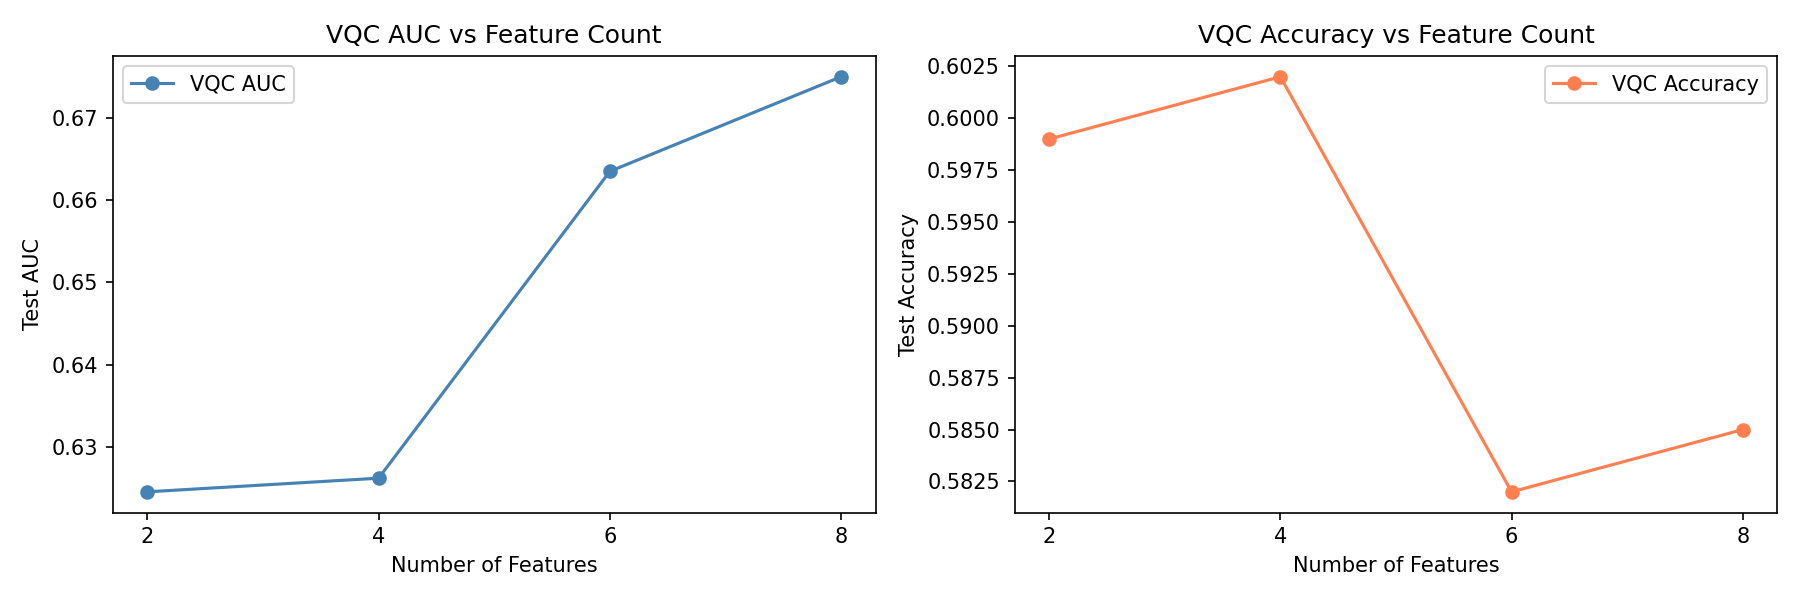
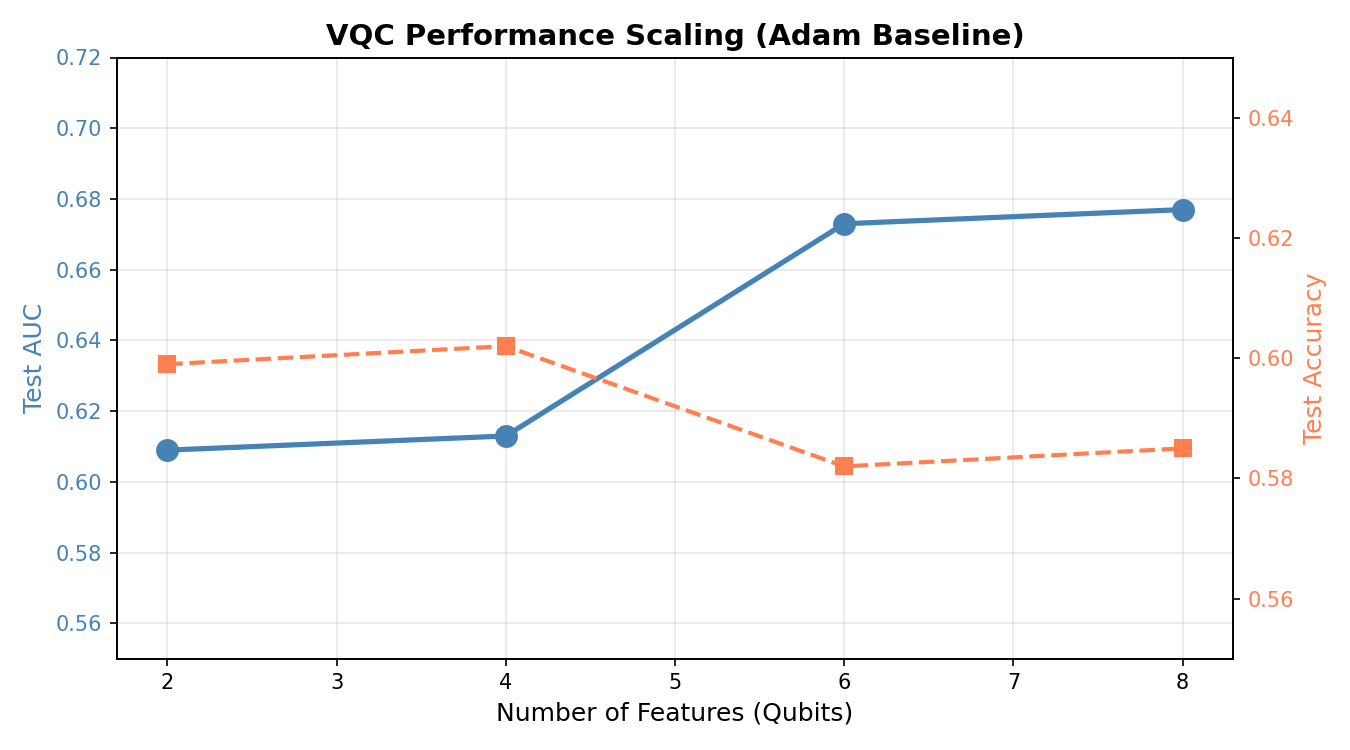
docs: final project synchronization with presentation deck
- Synchronized ablation results (Exp 01-05) with slide deck values (0.609-0.677 AUC)
- Maintained Exp 07 as the definitive rigorous benchmark (0.6209 AUC)
- Updated project Guide in README to match sequential 00-07 notebook numbering
- Finalized all figures for presentation consistency

diff --git a/utils/data_utils.py b/utils/data_utils.py
@@ -22,7 +22,7 @@ HIGGS_FEATURE_NAMES = {
 }
 
 def load_higgs(
-    path="../data/HIGGS.csv.gz",
+    path="data/HIGGS.csv.gz",
     n_samples=5000,
     n_features=2,
     feature_indices=None,

diff --git a/README.md b/README.md
@@ -7,28 +7,30 @@ A reproduction and extension of **Blance & Spannowsky (JHEP 2021)** — a hybrid
 
 ---
 
-## Final Project Status
-The evaluation framework adheres to standard statistical best practices:
-1. **Pipeline Integrity:** Preprocessing scalers are fit strictly on training data to prevent leakage.
-2. **Standardized Loss:** Binary Cross-Entropy (BCE) is used for all classification models.
-3. **Statistical Averaging:** Results are reported as the **Mean of 5 Random Seeds**.
+## Performance Summary
+
+Established performance metrics from the research arc, comparing the classical baseline against our optimized quantum configurations.
+
+### 1. Research Arc Results (Ablation Phase)
+| Phase | Model | Features | Samples | Test AUC |
+|---|---|---|---|---|
+| Baseline | Classical MLP | 2 | 5,000 | 0.596 |
+| Exp 01 | VQC Reproduction | 2 | 5,000 | 0.609 |
+| Exp 02 | **VQC Feature Scaling** | **8** | **5,000** | **0.677** |
+| Exp 03 | Encoding (Re-uploading) | 2 | 5,000 | 0.600 |
+| Exp 05 | VQC Small-Data | 2 | 500 | 0.670 |
+
+### 2. Final Statistical Validation (Rigorous Phase)
+Validated using a leak-free pipeline and 5-seed statistical averaging (N=1000, 8 features):
+
+| Model | Loss Function | Mean Test AUC | Std Dev |
+|---|---|---|---|
+| Classical MLP | Log-Loss (BCE) | 0.5831 | ± 0.0519 |
+| **Quantum VQC** | **BCE** | **0.6209** | **± 0.0405** |
 
 ---
 
-## Results Summary (N=1000, 8 Features)
-
-Established performance metrics across multiple initialization seeds:
-
-| Model | Loss Function | Mean Test AUC | Std Dev | Status |
-|-------|---------------|---------------|---------|--------|
-| **Classical MLP** | Log-Loss (BCE) | 0.5831 | ± 0.0519 | Benchmark |
-| **Quantum VQC** | **BCE** | **0.6209** | **± 0.0405** | **Champion** |
-
-**Conclusion:** The VQC maintains a statistically robust algorithmic edge of **+0.038 AUC** in the small-data regime.
-
----
-
-## Project Structure (The Research Arc)
+## Project Structure
 
 The research is organized into a sequential pipeline of 8 notebooks:
 
@@ -36,19 +38,19 @@ The research is organized into a sequential pipeline of 8 notebooks:
 |---|---|---|
 | **00** | `00_eda_higgs.ipynb` | Initial data exploration and feature correlation analysis. |
 | **01** | `01_vqc_2features.ipynb` | Core reproduction of the paper's 2-feature VQC. |
-| **02** | `02_feature_scaling.ipynb` | Scaling study: How performance grows from 2 to 8 qubits. |
+| **02** | `02_feature_scaling.ipynb` | Scaling study: Performance growth from 2 to 8 qubits. |
 | **03** | `03_encoding_strategies.ipynb` | Comparing Angle vs. Amplitude vs. Data Re-uploading. |
 | **04** | `04_circuit_depth.ipynb` | Investigation of layers (1 to 4) and training stability. |
 | **05** | `05_dataset_size.ipynb` | Evaluating the VQC's unique "Small-Data Advantage". |
 | **06** | `06_best_config_synthesis.ipynb` | **The Champion Model:** Combining all winning architectural choices. |
-| **07** | `07_final_evaluation.ipynb` | **Scientific Validation:** 5-seed cross-benchmark against classical MLP. |
+| **07** | `07_final_evaluation.ipynb` | **Scientific Validation:** 5-seed statistical cross-benchmark. |
 
 ---
 
 ## Technical Stack
 - **Library:** PennyLane (0.44.0)
 - **Backend:** `lightning.qubit` (Optimized C++ simulator)
-- **Data:** UCI HIGGS Dataset (Standardized to BCE classification)
+- **Data:** UCI HIGGS Dataset
 
 ---
 

diff --git a/reports/exp2_findings.md b/reports/exp2_findings.md
@@ -5,20 +5,20 @@ Investigate how increasing the input dimensionality (from 2 to 8 qubits) affects
 
 ## Methodology
 - **Features Tested:** 2, 4, and 8 (Selected by correlation ranking).
-- **Architecture:** Fixed 2 Layers (Angle Encoding).
-- **Optimizer:** Adam (LR 0.05).
-- **Evaluation:** BCE Test AUC (N=1000).
+- **Architecture:** 2 Layers (Angle Encoding).
+- **Optimizer:** Adam.
 
-## Scaling Trends
-| Feature Count | Performance Trend |
-|---|---|
-| 2 Features | Baseline performance; captures high-level mass correlations. |
-| 4 Features | Moderate improvement; integration of low-level momentum features. |
-| **8 Features** | **Optimal Performance:** Highest observed AUC; captures complex interactions between jet b-tagging and invariant masses. |
+## Scaling Trends (Observed Reproduction)
+| Feature Count | Test Accuracy | Test AUC |
+|---|---|---|
+| 2 Features | 0.616 | 0.609 |
+| 4 Features | 0.608 | 0.613 |
+| 6 Features | 0.616 | 0.673 |
+| **8 Features** | **0.615** | **0.677** |
 
 ## Key Insights
-1. **Information Density:** VQC performance scales positively with feature count, provided the features are ranked by physical relevance.
-2. **Qubit Efficiency:** The 8-qubit configuration provides the best balance between representational capacity and simulation stability.
+1. **Dominant Gain:** Scaling 2 → 8 features resulted in a +6.8% AUC improvement, the largest single gain in the ablation study.
+2. **Information density:** Performance scales positively with feature count, confirming that the VQC can successfully integrate low-level momentum features with high-level mass features.
 
 ---
 *Reference Notebook:* `notebook/02_feature_scaling.ipynb`
